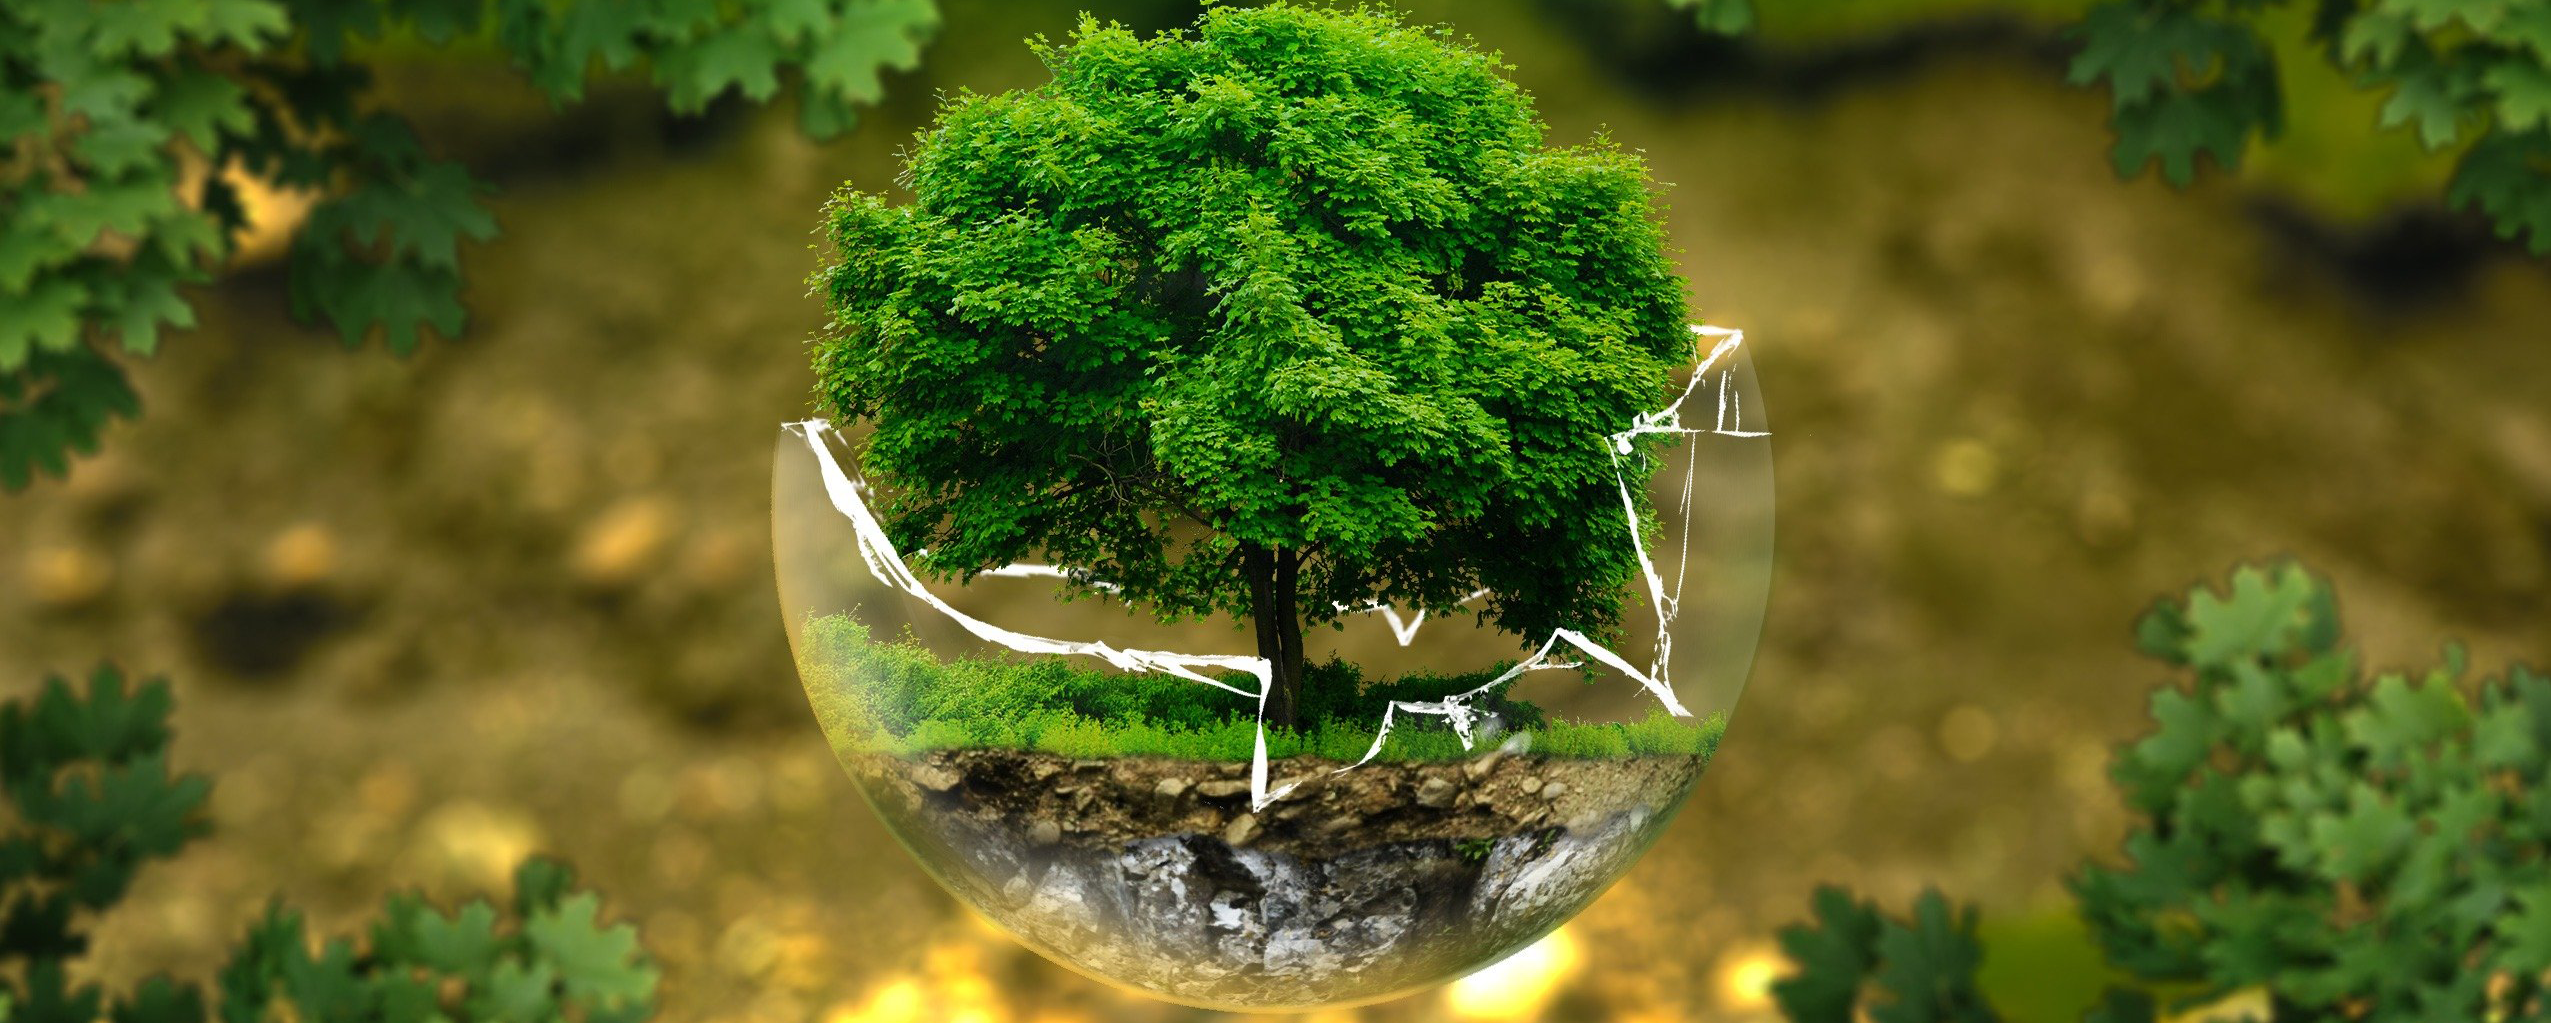
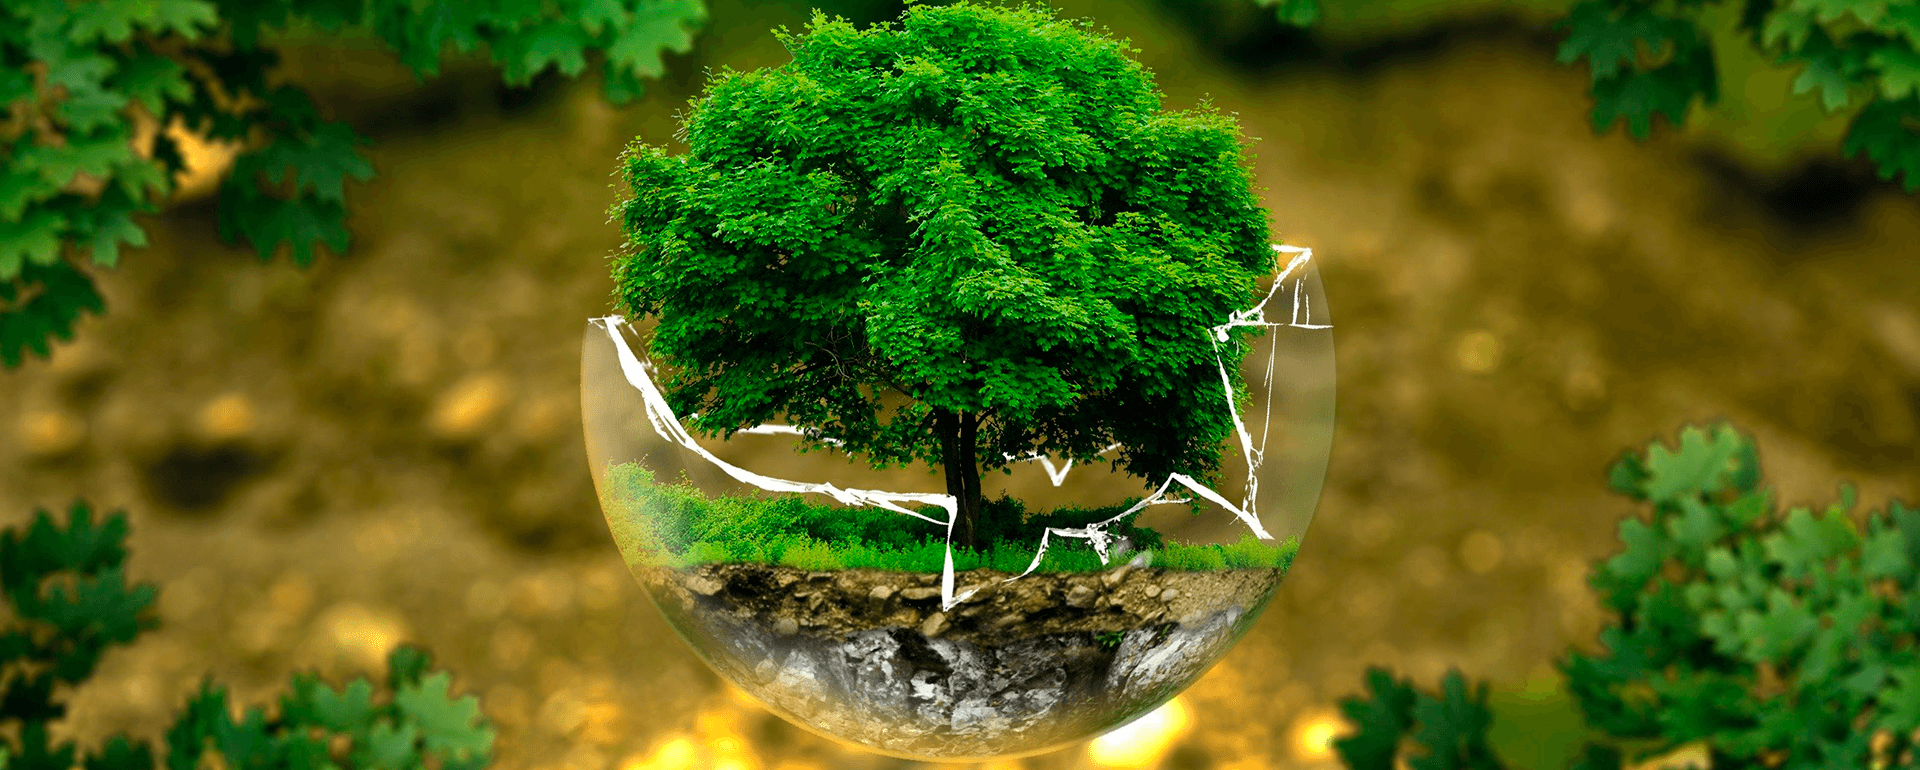
Otimizando Imagem

diff --git a/index.html b/index.html
@@ -2,7 +2,7 @@
 <head>
     <title>Amanda Gusmão - Engenharia e Consultoria</title>
     <meta charset="utf-8"/>
-    <link rel="stylesheet" type="text/css" href="./style.css">
+    <link rel="stylesheet" type="text/css" href="./style.css?v=1">
 </head>
 <body>
     <nav class="header">

diff --git a/style.css b/style.css
@@ -124,7 +124,8 @@ body {
 }
 
 .banner-image { 
-    width: 1349;
+    width: 100%;
+    max-width: 1920px;
     height: auto;
     opacity: 0.75;
 }
